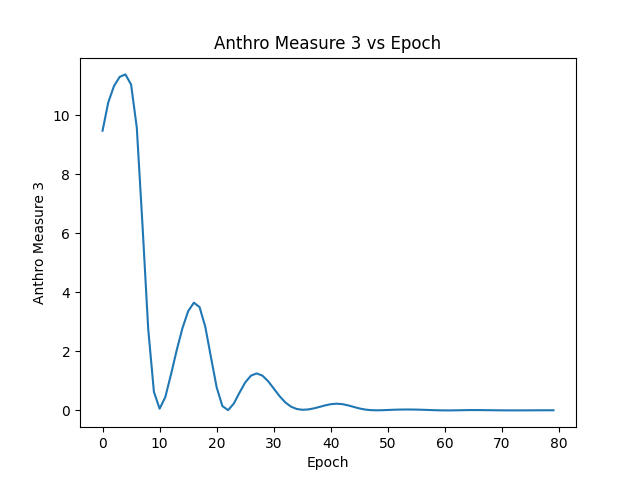
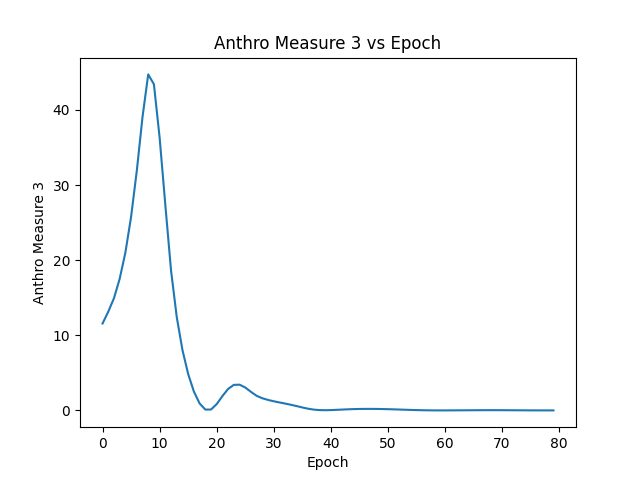
converted to trunc64

diff --git a/src/inputProcessing.py b/src/inputProcessing.py
@@ -9,7 +9,7 @@ class InputProcessing:
         file_path =  os.path.join('..','data','cipic.hdf5')
 
         with h5py.File(file_path, "r") as f:
-            dset = f[subject]['hrir_l']['raw']
+            dset = f[subject]['hrir_l']['trunc_64']
             row = np.array(dset)
         
         return row
@@ -20,7 +20,7 @@ class InputProcessing:
         file_path =  os.path.join('..','data','cipic.hdf5')
 
         with h5py.File(file_path, "r") as f:
-            dset = f[subject]['srcpos']['raw']
+            dset = f[subject]['srcpos']['trunc_64']
             row = np.array(dset)
         
         return row

diff --git a/src/model.py b/src/model.py
@@ -18,7 +18,7 @@ Output Vectors:
 class Model(nn.Module):
 
     def __init__(self, 
-                 hrir_pos=203, 
+                 hrir_pos=67, 
                  h1=10, h2=15, h3=10, 
                  ear_anthro=10):
         super().__init__() # instantiate our nn.Module
